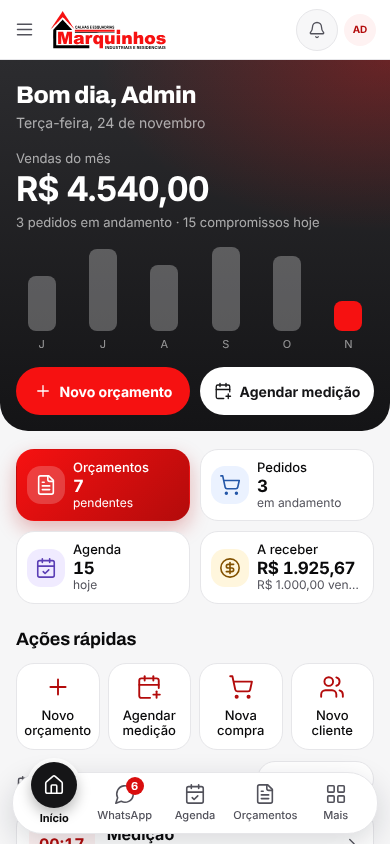
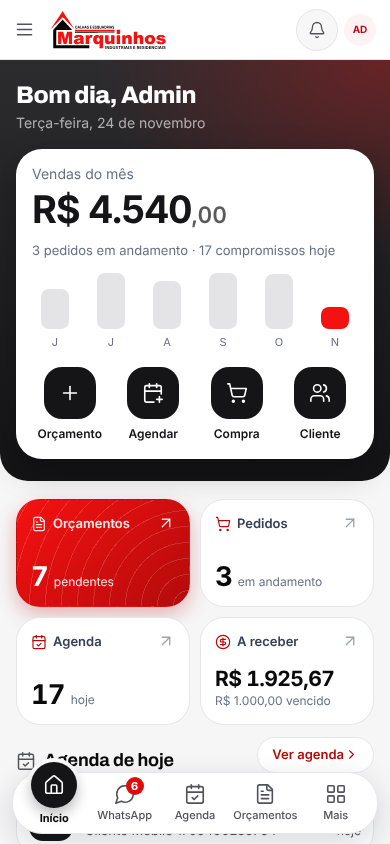
feat(ux): início com cartão claro e atalhos em quadrados, tiles com seta e chips em pílula
- Início: cartão claro dentro do painel com valor (centavos menores), barras e atalhos Orçamento/Agendar/Compra/Cliente
- tiles com título e seta ↗ no topo e número embaixo; primeiro em vermelho Marquinhos com linhas concêntricas
- agenda de hoje com ícone, título e horário à direita
- chips em pílula (selecionado em grafite) em Orçamentos e Agenda; botões em pílula
Paleta Marquinhos (vermelho, grafite, branco); logo original preservada.

Claude-Session: https://claude.ai/code/session_019r53HgSe1yoioPFHkHVqRt

diff --git a/components/mobile-home.tsx b/components/mobile-home.tsx
@@ -1,7 +1,7 @@
 import Link from "next/link";
 import { AgendaEventLink } from "@/components/agenda-event-link";
 import type { AgendaSource } from "@/lib/agenda";
-import { CalendarCheck, CalendarPlus, ChevronRight, CircleDollarSign, FileText, Layers, Plus, ShoppingCart, User, Users } from "lucide-react";
+import { ArrowUpRight, CalendarCheck, CalendarPlus, ChevronRight, CircleDollarSign, FileText, Layers, Plus, Ruler, ShoppingCart, Users, Wrench } from "lucide-react";
 
 type TodayEvent = { id: string; source?: AgendaSource; title: string; starts_at: string; event_type: string; client_name?: string };
 export type MobileHomeProps = {
@@ -12,6 +12,11 @@ export type MobileHomeProps = {
   stages: { measure: number; production: number; install: number; done: number } | null;
 };
 
+/** "R$ 4.540,00" -> parte inteira grande e centavos pequenos (como nas referências). */
+function Money({ text }: { text: string }) {
+  const i = text.lastIndexOf(",");
+  return i < 0 ? <>{text}</> : <>{text.slice(0, i)}<span className="mh-cents">{text.slice(i)}</span></>;
+}
 const hhmm = (iso: string) => new Date(iso).toLocaleTimeString("pt-BR", { hour: "2-digit", minute: "2-digit", timeZone: "America/Sao_Paulo" });
 const TYPE: Record<string, string> = { medicao: "Medição", instalacao: "Instalação", visita: "Visita", reuniao: "Reunião", entrega: "Entrega" };
 
@@ -27,47 +32,43 @@ export function MobileHome({ name, greeting, dateLabel, hero, kpis, today, stage
       : { label: "Leads", value: String(kpis.leads), note: "novos", Icon: Users, tone: "warning", href: "/pipeline" },
   ];
   const actions = [
-    { label: "Novo orçamento", href: "/orcamentos/calhas", Icon: Plus },
-    { label: "Agendar medição", href: "/medicoes", Icon: CalendarPlus },
-    { label: "Nova compra", href: "/compras/nova", Icon: ShoppingCart },
-    { label: "Novo cliente", href: "/clientes/novo", Icon: Users },
+    { label: "Orçamento", href: "/orcamentos/calhas", Icon: Plus },
+    { label: "Agendar", href: "/medicoes", Icon: CalendarPlus },
+    { label: "Compra", href: "/compras/nova", Icon: ShoppingCart },
+    { label: "Cliente", href: "/clientes/novo", Icon: Users },
   ];
   return (
     <div className="mobile-only mobile-home">
       <section className="mh-hero" aria-label="Resumo do mês">
         <h1 className="mh-greeting">{greeting}, {name}</h1>
         <p className="mh-date">{dateLabel}</p>
-        <p className="mh-hero-label">{hero.label}</p>
-        <p className="mh-hero-value">{hero.value}</p>
-        <p className="mh-hero-note">{hero.note}</p>
-        {hero.bars.length > 0 && (
-          <div className="mh-bars" role="img" aria-label={hero.bars.map(b => `${b.label}: ${b.value.toLocaleString("pt-BR", { style: "currency", currency: "BRL" })}`).join("; ")}>
-            {hero.bars.map(b => (
-              <div key={b.label} className="mh-bar-col" data-current={b.current ? "true" : undefined}>
-                <i style={{ height: `${Math.max(6, Math.round((b.value / top) * 100))}%` }} />
-                <span>{b.label}</span>
-              </div>
-            ))}
+        <div className="mh-hero-card">
+          <p className="mh-hero-label">{hero.label}</p>
+          <p className="mh-hero-value"><Money text={hero.value} /></p>
+          <p className="mh-hero-note">{hero.note}</p>
+          {hero.bars.length > 0 && (
+            <div className="mh-bars" role="img" aria-label={hero.bars.map(b => `${b.label}: ${b.value.toLocaleString("pt-BR", { style: "currency", currency: "BRL" })}`).join("; ")}>
+              {hero.bars.map(b => (
+                <div key={b.label} className="mh-bar-col" data-current={b.current ? "true" : undefined}>
+                  <i style={{ height: `${Math.max(6, Math.round((b.value / top) * 100))}%` }} />
+                  <span>{b.label}</span>
+                </div>
+              ))}
+            </div>
+          )}
+          <div className="mh-circles">
+            {actions.map(({ label, href, Icon }) => <Link key={label} href={href}><span><Icon size={22} /></span>{label}</Link>)}
           </div>
-        )}
-        <div className="mh-hero-actions">
-          <Link href="/orcamentos/calhas" className="mh-pill is-primary"><Plus size={18} />Novo orçamento</Link>
-          <Link href="/medicoes" className="mh-pill"><CalendarPlus size={18} />Agendar medição</Link>
         </div>
       </section>
 
       <div className="mh-kpis">
         {tiles.map(({ label, value, note, Icon, tone, href }) => (
-          <Link key={label} href={href} className="mh-kpi">
-            <span className="mh-kpi-icon" data-tone={tone}><Icon size={22} /></span>
-            <span className="mh-kpi-text"><small>{label}</small><strong>{value}</strong><em>{note}</em></span>
+          <Link key={label} href={href} className="mh-kpi" data-tone={tone}>
+            <span className="mh-kpi-top"><small><Icon size={16} />{label}</small><ArrowUpRight size={18} aria-hidden /></span>
+            <span className="mh-kpi-value"><strong className={value.length > 8 ? "is-long" : undefined}>{value}</strong><em>{note}</em></span>
           </Link>
         ))}
-      </div>
-
-      <h2 className="mh-title">Ações rápidas</h2>
-      <div className="mh-actions">
-        {actions.map(({ label, href, Icon }) => <Link key={label} href={href}><Icon size={26} strokeWidth={1.6} /><span>{label}</span></Link>)}
       </div>
 
       <div className="mh-section-head"><h2 className="mh-title"><CalendarCheck size={20} />Agenda de hoje</h2><Link href="/agenda">Ver agenda <ChevronRight size={15} /></Link></div>
@@ -76,9 +77,9 @@ export function MobileHome({ name, greeting, dateLabel, hero, kpis, today, stage
           {today.slice(0, 4).map(e => (
             <li key={`${e.source}-${e.id}`}>
               <AgendaEventLink eventId={e.id} source={e.source} className="mh-event">
-                <span className="mh-time">{hhmm(e.starts_at)}</span>
-                <span className="mh-event-text"><strong>{TYPE[e.event_type] ?? e.title}</strong><small>{e.client_name ? <><User size={14} />{e.client_name}</> : e.title}</small></span>
-                <ChevronRight size={18} className="mh-chevron" />
+                <span className="mh-event-icon">{e.event_type === "medicao" ? <Ruler size={20} /> : e.event_type === "instalacao" ? <Wrench size={20} /> : <CalendarCheck size={20} />}</span>
+                <span className="mh-event-text"><strong>{TYPE[e.event_type] ?? e.title}</strong><small>{e.client_name ?? e.title}</small></span>
+                <span className="mh-event-time"><b>{hhmm(e.starts_at)}</b><small>hoje</small></span>
               </AgendaEventLink>
             </li>
           ))}

diff --git a/app/mobile.css b/app/mobile.css
@@ -423,3 +423,52 @@
  .mobile-date-label::first-letter { text-transform: uppercase; }
 }
 @media screen and (max-width: 767px) { .mobile-day-heading .mobile-inline-button { display: none; } }
+
+/* ===== Segunda leva das referências: cartão claro no painel, tiles com seta, chips em pílula ===== */
+@media screen and (max-width: 767px) {
+ /* painel do Início: cartão claro com valor, barras e atalhos em quadrados arredondados */
+ .mh-hero { padding-bottom: 22px; }
+ .mh-hero-card { margin-top: 16px; padding: 16px; border-radius: 26px; background: #fff; color: #151517; box-shadow: 0 12px 32px rgb(0 0 0 / .28); }
+ .mh-hero-card .mh-hero-label { margin-top: 0; font-size: 14px; color: #667085; }
+ .mh-hero-card .mh-hero-value { margin-top: 4px; font-size: 38px; line-height: 44px; color: #151517; }
+ .mh-cents { font-size: .6em; font-weight: 600; opacity: .7; letter-spacing: 0; }
+ .mh-hero-card .mh-hero-note { color: #667085; }
+ .mh-hero-card .mh-bars { height: 76px; margin: 14px 0; }
+ .mh-hero-card .mh-bar-col > i { background: #E4E4E7; }
+ .mh-hero-card .mh-bar-col[data-current=true] > i { background: var(--brand); }
+ .mh-hero-card .mh-bar-col > span { color: #667085; }
+ .mh-circles { display: grid; grid-template-columns: repeat(4, minmax(0, 1fr)); gap: 8px; padding-top: 4px; }
+ .mh-circles a { display: flex; flex-direction: column; align-items: center; gap: 6px; min-width: 0; font-size: 12px; font-weight: 600; color: #151517; }
+ .mh-circles a > span { display: flex; align-items: center; justify-content: center; width: 52px; height: 52px; border-radius: 18px; background: #151517; color: #fff; }
+
+ /* tiles: título e seta no topo, número embaixo */
+ .mh-kpis { gap: 10px; }
+ .mh-kpi { flex-direction: column; align-items: stretch; justify-content: space-between; gap: 14px; min-height: 108px; padding: 14px; border-radius: 24px; background: #fff; }
+ .mh-kpi-top { display: flex; align-items: flex-start; justify-content: space-between; gap: 8px; color: #98A2B3; }
+ .mh-kpi-top small { display: flex; align-items: center; gap: 6px; font-size: 13px; font-weight: 600; color: #344054; }
+ .mh-kpi-top small svg { color: var(--brand-text); }
+ .mh-kpi-value { display: flex; flex-wrap: wrap; align-items: baseline; gap: 2px 6px; min-width: 0; }
+ .mh-kpi-value strong { font-size: clamp(24px, 7vw, 30px); font-weight: 800; letter-spacing: -.03em; line-height: 1.1; font-variant-numeric: tabular-nums; }
+ .mh-kpi-value strong.is-long { font-size: clamp(18px, 5.4vw, 22px); }
+ .mh-kpi-value em { font-style: normal; font-size: 12px; color: #667085; }
+ .mh-kpis > .mh-kpi:first-child { background: repeating-radial-gradient(circle at 100% 100%, transparent 0 15px, rgb(255 255 255 / .14) 15px 16px), linear-gradient(135deg, #F61111 0%, #B30B0B 100%); }
+ .mh-kpis > .mh-kpi:first-child .mh-kpi-top, .mh-kpis > .mh-kpi:first-child .mh-kpi-top small, .mh-kpis > .mh-kpi:first-child .mh-kpi-top small svg, .mh-kpis > .mh-kpi:first-child .mh-kpi-value em { color: rgb(255 255 255 / .9); }
+
+ /* agenda de hoje: ícone, título e horário à direita */
+ .mh-event { gap: 12px; padding: 12px; border-radius: 22px; }
+ .mh-event-icon { display: flex; align-items: center; justify-content: center; flex: none; width: 44px; height: 44px; border-radius: 14px; background: #151517; color: #fff; }
+ .mh-event-time { display: flex; flex-direction: column; align-items: flex-end; flex: none; }
+ .mh-event-time b { font-size: 16px; font-weight: 700; font-variant-numeric: tabular-nums; }
+ .mh-event-time small { font-size: 12px; color: var(--text-muted); }
+ .mh-stages a { border-radius: 20px; }
+
+ /* chips em pílula (selecionado em grafite) */
+ .mobile-quote-workspace nav[aria-label='Status do orçamento'] { gap: 8px; padding: 0; border-bottom: 0; overflow-x: auto; }
+ .mobile-quote-workspace nav[aria-label='Status do orçamento'] a { display: inline-flex; align-items: center; height: 38px; min-height: 38px; padding: 0 16px; border: 1px solid var(--border); border-radius: 999px; background: #fff; color: #344054; font-size: 14px; font-weight: 500; }
+ .mobile-quote-workspace nav[aria-label='Status do orçamento'] a.button { background: #151517; border-color: #151517; color: #fff; font-weight: 600; }
+ .mobile-agenda-filters button[aria-pressed=true] { background: #151517; border-color: #151517; color: #fff; }
+
+ /* botões e cartões mais arredondados */
+ .app-content :is(.button, .button-ghost) { border-radius: 999px; }
+ .app-content .card { border-radius: 22px; }
+}
